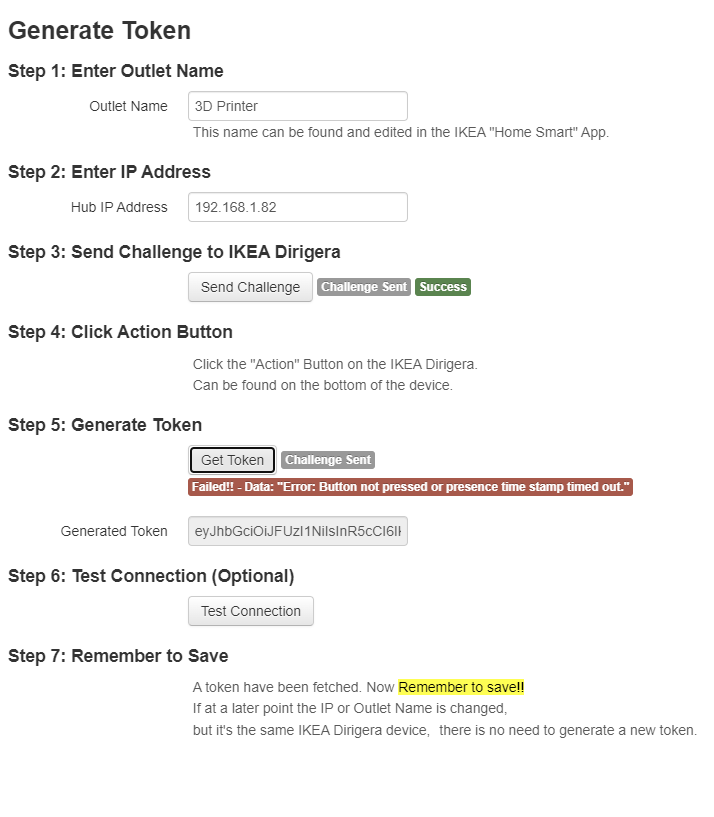
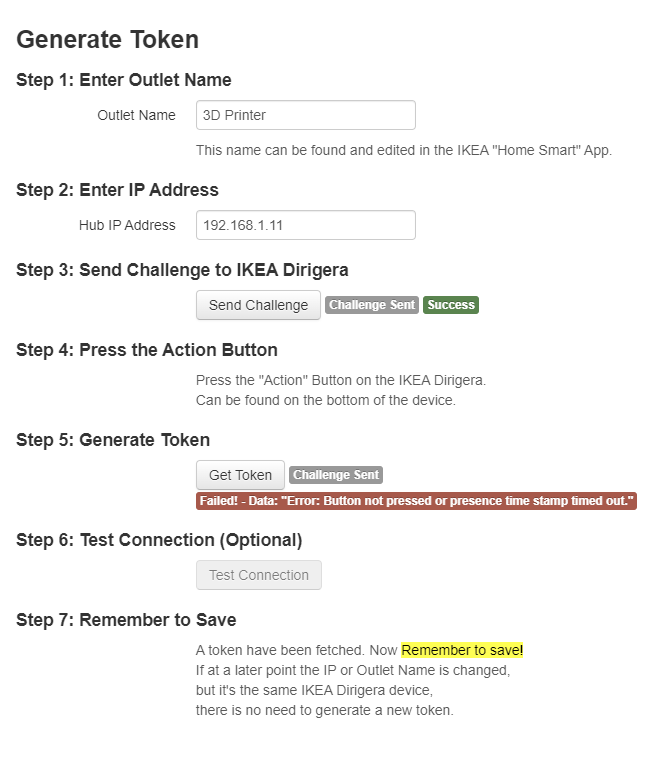
Fixed spelling mistakes for PSU Control - IKEA Dirigera

Changed region(s): [[0.0, 0.0306, 0.988, 0.9184]]

diff --git a/_plugins/psucontrol_ikea_dirigera.md b/_plugins/psucontrol_ikea_dirigera.md
@@ -3,12 +3,12 @@ layout: plugin
 
 id: psucontrol_ikea_dirigera
 title: OctoPrint PSU Control IKEA Dirigera
-description: Adds IKEA Dirigera connected smart Outlet support to OctoPrint-PSUControl as a sub-plugin
+description: Adds IKEA Dirigera connected smart outlet support to OctoPrint-PSUControl as a sub-plugin
 authors:
 - Mesterkaa
 license: AGPLv3
 
-date: 2024-10-03
+date: 2024-10-04
 
 homepage: https://github.com/Mesterkaa/OctoPrint-PSU_Control_IKEA_Dirigera
 source: https://github.com/Mesterkaa/OctoPrint-PSU_Control_IKEA_Dirigera
@@ -23,13 +23,13 @@ tags:
 - ikea
 
 screenshots:
-- url: assets/img/plugins/psucontrol_ikea_dirigera/Plugin.png
+- url: /assets/img/plugins/psucontrol_ikea_dirigera/Plugin.png
   alt: Plugin Settings
   caption: The PSU Control - IKEA Dirigera plugin settings
-- url: assets/img/plugins/psucontrol_ikea_dirigera/IKEAHomeSmart1.png
+- url: /assets/img/plugins/psucontrol_ikea_dirigera/IKEAHomeSmart1.png
   alt: IKEA Homesmart Device Name
   caption: IKEA Homesmart Device name.
-- url: assets/img/plugins/psucontrol_ikea_dirigera/IKEAHomeSmart2.png
+- url: /assets/img/plugins/psucontrol_ikea_dirigera/IKEAHomeSmart2.png
   alt: IKEA Homesmart Device Settings
   caption: IKEA Homesmart device settings
 
@@ -42,36 +42,35 @@ compatibility:
 # IKEA Dirigera PSU Control
 ## About
 
-IKEA Dirigera subplugin for [PSU Control](https://github.com/kantlivelong/OctoPrint-PSUControl) in [Octoprint](https://octoprint.org/)
+IKEA Dirigera sub-plugin for [PSU Control](https://github.com/kantlivelong/OctoPrint-PSUControl) in [Octoprint](https://octoprint.org/)
 
-Add the ability to control any IKEA Smart outlet connected to IKEA Dirigera Hub, via the PSU Control Plugin.
+Add the ability to control any IKEA smart outlet connected to IKEA Dirigera Hub, via the PSU Control Plugin.
 
-- Choose this plugin for Switching and/or sensing in [PSU Control](https://github.com/kantlivelong/OctoPrint-PSUControl) Settings.
-- Input Ikea Dirigera IP address, Outlet Name and generate a token and you are ready to go.
+- Choose this plugin for Switching/Sensing in [PSU Control](https://github.com/kantlivelong/OctoPrint-PSUControl) settings.
+- Input IKEA Dirigera IP address, Outlet Name and generate a token, and you are ready to go.
 
 ## Configuration
 
-Follow the Step-To-Step guide in the Plugin settings.
+Follow the Step-by-Step guide in the Plugin settings.
 1. **Enter Outlet Name**
-    - The outlet name is the name given to the device in the IKEA "Home Smart" App.
+    - The Outlet Name is the name given to the device in the IKEA "Home Smart" App.
         - [Apple](https://apps.apple.com/us/app/ikea-home-smart/id1633226273)
         - [Android](https://play.google.com/store/apps/details?id=com.ikea.inter.homesmart.system2)
     - The name needs to be unique and can be edited in the app.
 2. **Enter IP Address**
-    - IP Address of the IKEA Dirigera Hub. The app sadly doesn't show it so it has to be found in other ways e.g. your router settings.
+    - IP Address of the IKEA Dirigera Hub. The app sadly doesn't show it, so it has to be found in other ways e.g. your router settings.
 3. **Send Challenge**
-    - Click the button and await a success.
-    - A **fail** will be followed by some error data that might give a hint of the error.
-4. **Click Action Button**
-    - On the bottom of the IKEA Dirigera device is a button labeled **Action**.
-    - Click this one.
+    - Click the **Send Challenge** button and await a success.
+    - A **fail** will be followed by some error data that might give a hint of the problem.
+4. **Press the Action Button**
+    - The **Action** button can be found labeled on the bottom of the IKEA Dirigera device.
 5. **Generate Token**
-    - Click the button and await a success.
+    - Click the **Get Token** button and await a success.
     - A successful call will result in a **token** in the "Generated Token" field.
     - A **fail** will be followed by some error data that might give a hint of the error.
 6. **Test Connection (Optional)**
-    - Optionally you can test the connection.
+    - Click the **Test Connection** button and await a success.
     - On a success you should see the current status of the outlet.
 7. **Remember to Save**
     - The token has been fetched from the IKEA Dirigera but has yet to be saved.
-    - **Remember to save!!**
+    - **Remember to save!**
